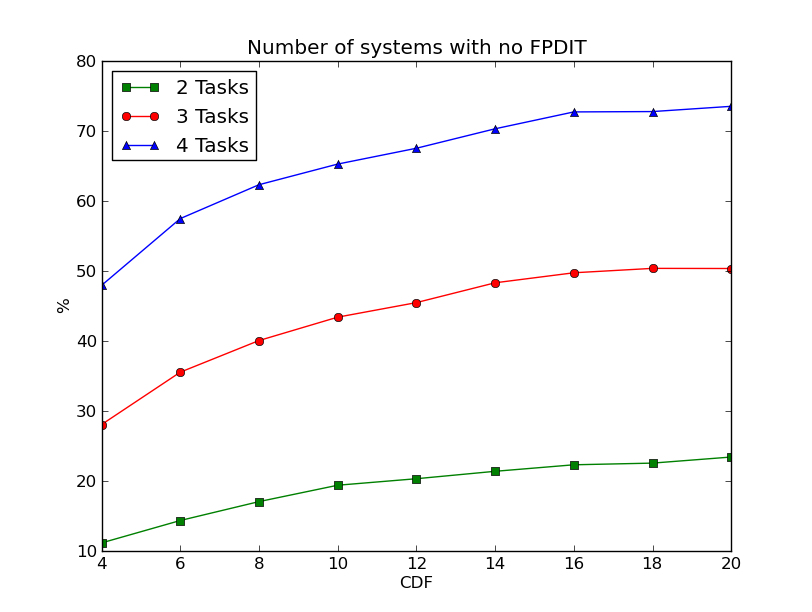
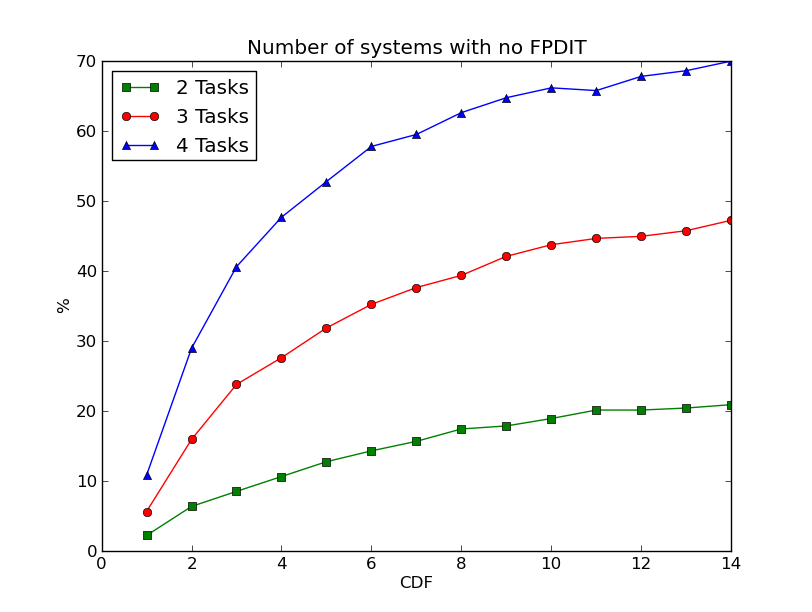
Updated noFPDIT plot

diff --git a/dit-paper_ieee.tex b/dit-paper_ieee.tex
@@ -398,7 +398,7 @@ synchronous system.
 			\end{array}
 			\right.
 		\]
-		However those four conditions cannot be satisfied, which means the system has
+		However neither is, which means the system has
 		no FPDIT (and no other DIT than $t=0$).
 
 	\subsection{Solving the modular system}
@@ -423,12 +423,12 @@ synchronous system.
 
 	This simulation aims to quantify how much system have a FPDIT and which factor can influence this quantity.
 
-	We thus checked the existence condition on systems generated by:
+	We thus checked the existence condition on 10000 systems generated by:
 	\begin{itemize}
 		\item Generating utilization values with the \texttt{UUniFast} algorithm described in \cite{bini2005measuring}, with parameters
 		\begin{itemize}
 			\item $U_{tot}$ (system utilization) chosen uniformly between 0.25 and 0.75
-			\item $n$ (number of tasks) equal to 3
+			\item $n$ (number of tasks) equal to 3, 4 and 5.
 		\end{itemize}
 		\item Choosing the $T_i$ uniformly between 5 and 20, which also gives us the $C_i = \lfloor U_i \, T_i \rfloor$
 		\item Choosing the $O_i$ with a normal distribution of mean $T_{min}$ and standard deviation $\frac{T_{max} - T_{min}}{2}$
@@ -505,8 +505,6 @@ The FPDIT, if it exists, must occur in the transitive period. Indeed, it cannot 
 
 As the FPDIT happens when all tasks are in the system, we know that the system will arrive in the exact same state one hyperperiod later ($t_d + H$). We can thus restrict the DBF test to intervals included in the interval $[t_d, t_d + H]$, if the FPDIT exists. This will always be a better interval than $[O_{max}, O_{max} + 2H]$ and if the first periodic DIT does not exist (which can be verified as explained in Section \ref{sct:FPDITexist}), the latter interval can be used.
 
-(Remarque : Avec seulement cette méthode, si un DIT existe on divisera toujours par exactement 4 le nombre de contraintes par rapport à $O_{max} + 2H$)
-
 \subsubsection{Redundancy as an integer linear problem}
 
 The general problem of redundancy of a new linear constraint $C \, X \leq d$ w.r.t. a set of previous linear constraints $A \, X \leq B$ in an ILP can itself be written as the following ILP:
@@ -533,7 +531,7 @@ with
 \caption{Redundancy of $CX \leq d$ w.r.t. $A X \leq B$ as an ILP}
 \end{figure}
 
-Indeed, if the maximization returns $z=d+1$, it means that there are some integer values accessible with the previous constraints that the new constraint forbids. On the other hands, if the maximization returns $z \leq d$, it means that the limitation expressed in the new constraint is already enforced by the previous constraints. Therefore $z \leq d$ is a necessary and sufficient condition of redundancy of the new constraint.\\
+Indeed, if the maximization returns $z=d+1$, it means that there are some integer values accessible with the previous constraints that the new constraint forbids. On the other hands, if the maximization returns $z \leq d$, it means that the limitation expressed in the new constraint is already enforced by the previous constraints. Therefore $z \leq d$ is a necessary and sufficient condition of redundancy of the new constraint.
 
 Such a linear problem can be solved by e.g. the simplex algorithm and a branch-and-cut approach. However, in our case the problem is not exactly the same as we have a set of constraints and we want to find all redundant constraints within. A naive method would be to test each constraint against all the others. We present a similar method with an efficient preprocessing when most constraints are redundant in Algorithm \ref{alg:prunRedun}.
 
@@ -579,10 +577,9 @@ Consider the following task system
      \hline
     \end{tabular}
     \end{center}
-    ~\\
 
 The FPDIT happens at $t=15$ and we have $H = 15$. The study interval using the FPDIT is thus $[15, 30]$, which contains 11 intervals $[a,d]$ with $a$ being the arrival of a job, $d$ being the deadline of a job, and $15 \leqslant a < d \leqslant 30$. Those intervals are
-$[15, 17]$, $[15, 22]$, $[15, 27]$, $[15, 30]$, $[20, 22]$, $[20, 27]$, $[20, 30]$, $[23, 27]$, $[23, 30]$, $[25, 27]$ and $[25, 30]$. For comparison, the original study interval of $[O_{max}, O_{max} + 2H]$ is $[8, 38]$ which yields 57 intervals.\\
+$[15, 17]$, $[15, 22]$, $[15, 27]$, $[15, 30]$, $[20, 22]$, $[20, 27]$, $[20, 30]$, $[23, 27]$, $[23, 30]$, $[25, 27]$ and $[25, 30]$. For comparison, the original study interval of $[O_{max}, O_{max} + 2H]$ is $[8, 38]$ which yields 57 intervals.
 
 For each $[a, d]$, we have a constraint $$\sum_{i=0}^{n-1} n_i(a, d) \, C_i \leqslant d - a$$ which give a description of the C-space.
 

diff --git a/python-simulation/mainNoFPDIT.py b/python-simulation/mainNoFPDIT.py
@@ -55,7 +55,7 @@ if __name__ == '__main__':
 
 	pylab.figure()
 	pylab.plot(CDFvalues, noFPDITpcts2, "g-s", label="2 Tasks")
-	pylab.plot(CDFvalues, noFPDITpcts3, "r-o", label="3 Tasks")
+	pylab.plot(CDFvalues, noFPDITpcts3, "k-o", label="3 Tasks")
 	pylab.plot(CDFvalues, noFPDITpcts4, "b-^", label="4 Tasks")
 	pylab.ylabel("%")
 	pylab.xlabel("CDF")
